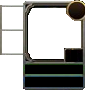
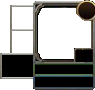
updated now with cs score

diff --git a/daYMANs Sidebar/Program.cs b/daYMANs Sidebar/Program.cs
@@ -58,8 +58,8 @@ namespace ConsoleApplication12
         {
             Sprite = new Sprite(Render.Device);
             HUDult = Texture.FromMemory(Drawing.Direct3DDevice, (byte[])new ImageConverter().ConvertTo(Resources.HUDult, typeof(byte[])), 16, 16, 0, Usage.None, Format.A1, Pool.Managed, Filter.Default, Filter.Default, 0);
-            blackTexture = Texture.FromMemory(Drawing.Direct3DDevice, (byte[])new ImageConverter().ConvertTo(Resources.schwarz, typeof(byte[])), 62 + 24, 90, 0, Usage.None, Format.A1, Pool.Managed, Filter.Default, Filter.Default, 0);
-            HUD = Texture.FromMemory(Drawing.Direct3DDevice, (byte[])new ImageConverter().ConvertTo(Resources.HUDtest, typeof(byte[])), 62 + 24, 90, 0, Usage.None, Format.A1, Pool.Managed, Filter.Default, Filter.Default, 0);
+            blackTexture = Texture.FromMemory(Drawing.Direct3DDevice, (byte[])new ImageConverter().ConvertTo(Resources.schwarz, typeof(byte[])), 62 + 24+10, 90, 0, Usage.None, Format.A1, Pool.Managed, Filter.Default, Filter.Default, 0);
+            HUD = Texture.FromMemory(Drawing.Direct3DDevice, (byte[])new ImageConverter().ConvertTo(Resources.HUDtest, typeof(byte[])), 62 + 24+10, 90, 0, Usage.None, Format.A1, Pool.Managed, Filter.Default, Filter.Default, 0);
             hpTexture = Texture.FromMemory(Drawing.Direct3DDevice, (byte[])new ImageConverter().ConvertTo(Resources.HPbar, typeof(byte[])), 58, 10, 0, Usage.None, Format.A1, Pool.Managed, Filter.Default, Filter.Default, 0);
             manaTexture = Texture.FromMemory(Drawing.Direct3DDevice, (byte[])new ImageConverter().ConvertTo(Resources.MANAbar, typeof(byte[])), 58, 10, 0, Usage.None, Format.A1, Pool.Managed, Filter.Default, Filter.Default, 0);
             energieTexture = Texture.FromMemory(Drawing.Direct3DDevice, (byte[])new ImageConverter().ConvertTo(Resources.Energiebar, typeof(byte[])), 58, 10, 0, Usage.None, Format.A1, Pool.Managed, Filter.Default, Filter.Default, 0);
@@ -118,6 +118,7 @@ namespace ConsoleApplication12
             Leftbar.AddItem(new MenuItem("Distance", "Distance").SetValue(new Slider(0, -50, 50)));
             SidebarMenu.AddSubMenu(Leftbar);
             SidebarMenu.AddItem(new MenuItem("Activate", "Activate")).SetValue(true);
+            SidebarMenu.AddItem(new MenuItem("Activate", "Only draw visible enemies")).SetValue(true);
             SidebarMenu.AddToMainMenu();
 
 
@@ -164,12 +165,13 @@ namespace ConsoleApplication12
             {
                 if (SidebarMenu.Item("Activate").GetValue<bool>()) //drawHUD
                 {
-                    x = -Width + ((62 + 24) * scale);
+                    x = -Width + ((62 + 24+10) * scale);
                     y = Height * -.10f;
                     int zahler = 0;
                     String timetorespawn;
                     foreach (var enemie in enemyList)
                     {
+                        x = x - 10;
                         int z = 0;
                         foreach (var sSlot in SummonerSpellSlots)    //Imeh again
                         {
@@ -189,8 +191,8 @@ namespace ConsoleApplication12
                             }
 
 
-
-                            Sprite.Begin();
+                        #region shitty code
+                        Sprite.Begin();
                             switch (spell.Name)
                             {//shitty code but im to tired
                                 case "summonerodingarrison":
@@ -234,6 +236,7 @@ namespace ConsoleApplication12
                                     Sprite.Draw(summonerbarrier, new ColorBGRA(255, 255, 255, 255), new SharpDX.Rectangle(0, 24 * n, 24, 24), new Vector3(x - 2, y - 7 - z, 0));
                                     break;
                             }
+                        #endregion
                             Sprite.End();
                             z = 24;
                         } //Imeh end 
@@ -269,9 +272,9 @@ namespace ConsoleApplication12
                         hpwidth = Convert.ToInt32(((58f / 100f) * (enemie.Hero.HealthPercentage())));
                         Sprite.Begin(); //DRAW HUD
                         // //ziel:-1617 / -124 //bild 1 -4/-26 55x55
-                        x = x + 23;//fix wege i ha falsch agfange
-                        Sprite.Draw(HUD, new ColorBGRA(255, 255, 255, 255), new SharpDX.Rectangle(1, 0, 62 + 23, 90), new Vector3(x, y, 0), null); //todo add % value for heigh 
-                        x = x - 23;//fix wege i ha falsch agfange
+                        x = x + 23+10;//fix wege i ha falsch agfange
+                        Sprite.Draw(HUD, new ColorBGRA(255, 255, 255, 255), new SharpDX.Rectangle(1, 0, 62 + 23+10, 90), new Vector3(x, y, 0), null); //todo add % value for heigh 
+                        x = x - 23-10;//fix wege i ha falsch agfange
                         Sprite.End();
                         // //draw level  weiss =    248-248-255
                         small.DrawText(null, enemie.Hero.Level.ToString(), (int)x * -1 + 48, (int)y * -1 + 52, new ColorBGRA(248, 248, 255, 255));
@@ -304,11 +307,26 @@ namespace ConsoleApplication12
                             small.DrawText(null, Mana, (int)x * -1 + 2 + Manalength, (int)y * -1 + 65 + 14,
                                 new ColorBGRA(248, 248, 255, 255));
                         }
-                        else
+                        x = x + 10 + 24;
+                        int minionlength = 0;
+
+                        switch (enemie.Hero.MinionsKilled.ToString().Length)
                         {
+                            case 1:
+                                minionlength = 15;
+                                break;
 
+                            case 2:
+                                minionlength = 12;
+                                break;
+
+                            case 3:
+                                minionlength = 10;
+                                break;
                         }
-
+                         //   int minonlength = (31 - (enemie.Hero.MinionsKilled.ToString().Length * 3) / 2); //to center t
+                        small.DrawText(null, enemie.Hero.MinionsKilled.ToString(), (int)x * -1 + minionlength, (int)y * -1 + 62, new ColorBGRA(248, 248, 255, 255));
+                        x = x - 10 - 24;
                         //draw HP/MAXHP 
 
                         Sprite.Begin();
@@ -318,7 +336,7 @@ namespace ConsoleApplication12
                         if (!enemie.Hero.IsVisible || enemie.Hero.IsDead)//make it black :)
                         {
                             Sprite.Begin(); //DRAW icon 255, 255, 255, 255
-                            Sprite.Draw(blackTexture, new ColorBGRA(255, 255, 255, 110), null, new Vector3(x+24, y, 0), null);
+                            Sprite.Draw(blackTexture, new ColorBGRA(255, 255, 255, 110), null, new Vector3(x+24+10, y, 0), null);
                             Sprite.End();
                         }
 
@@ -335,13 +353,16 @@ namespace ConsoleApplication12
                         //}
                         //todo ping on  enemie.Hero.ServerPosition
                       //  Print(enemie.Hero.MinionsKilled.ToString());
-                        x = x + 23;
+                        x = x + 23 + 10;
                         y = y - 94;
                         zahler++;
-
+                     
                     }
                 }
-                    if (Leftbar.Item("Activate").GetValue<bool>())
+               
+
+                #region leftsidebar
+                if (Leftbar.Item("Activate").GetValue<bool>())
                     {
                         x = Leftbar.Item("offX").GetValue<Slider>().Value-50;
                         y = Leftbar.Item("offY").GetValue<Slider>().Value-50 ;
@@ -420,15 +441,15 @@ namespace ConsoleApplication12
                             y=y -48-Leftbar.Item("Distance").GetValue<Slider>().Value;
                         }
                     }
+                #endregion
 
 
 
-              
             }
             catch
             {
 
-            }
+            }  
         }
 
         //TheSaltyWaffle Universal Minimaphack (fetching Champion Icons)
